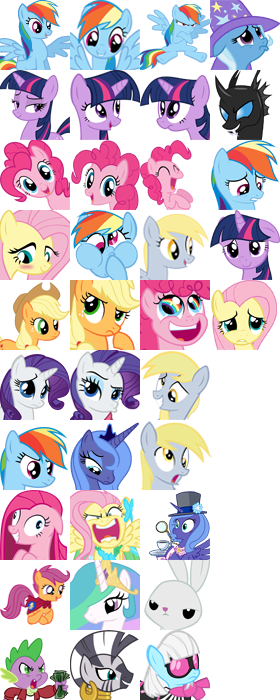
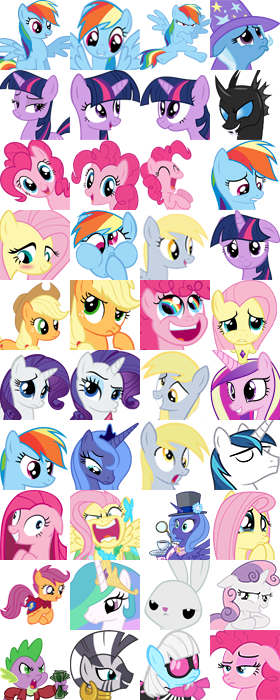
Update ponymoticons
Six new Reddit-style MLP emotes: cadencesmile, shiningpride, fluttercry,
sneakybelle, ppreally, twisad

Changed region(s): [[0.7429, 0.48, 1.0, 1.0]]

diff --git a/JabbR/Chat.emoji.js b/JabbR/Chat.emoji.js
@@ -6,7 +6,7 @@ var EmojiIcons;
     
     var validEmoji = { "+1": true, "-1": true, "0": true, "1": true, "109": true, "2": true, "3": true, "4": true, "5": true, "6": true, "7": true, "8": true, "8ball": true, "9": true, "a": true, "ab": true, "airplane": true, "alien": true, "ambulance": true, "angel": true, "anger": true, "angry": true, "apple": true, "aquarius": true, "aries": true, "arrow_backward": true, "arrow_down": true, "arrow_forward": true, "arrow_left": true, "arrow_lower_left": true, "arrow_lower_right": true, "arrow_right": true, "arrow_up": true, "arrow_upper_left": true, "arrow_upper_right": true, "art": true, "astonished": true, "atm": true, "b": true, "baby": true, "baby_chick": true, "baby_symbol": true, "balloon": true, "bamboo": true, "bank": true, "barber": true, "baseball": true, "basketball": true, "bath": true, "bear": true, "beer": true, "beers": true, "beginner": true, "bell": true, "bento": true, "bike": true, "bikini": true, "bird": true, "birthday": true, "black_square": true, "blue_car": true, "blue_heart": true, "blush": true, "boar": true, "boat": true, "bomb": true, "book": true, "boot": true, "bouquet": true, "bow": true, "bowtie": true, "boy": true, "bread": true, "briefcase": true, "broken_heart": true, "bug": true, "bulb": true, "bullettrain_front": true, "bullettrain_side": true, "bus": true, "busstop": true, "cactus": true, "cake": true, "calling": true, "camel": true, "camera": true, "cancer": true, "capricorn": true, "car": true, "cat": true, "cd": true, "chart": true, "checkered_flag": true, "cherry_blossom": true, "chicken": true, "christmas_tree": true, "church": true, "cinema": true, "city_sunrise": true, "city_sunset": true, "clap": true, "clapper": true, "clock1": true, "clock10": true, "clock11": true, "clock12": true, "clock2": true, "clock3": true, "clock4": true, "clock5": true, "clock6": true, "clock7": true, "clock8": true, "clock9": true, "closed_umbrella": true, "cloud": true, "clubs": true, "cn": true, "cocktail": true, "coffee": true, "cold_sweat": true, "computer": true, "confounded": true, "congratulations": true, "construction": true, "construction_worker": true, "convenience_store": true, "cool": true, "cop": true, "copyright": true, "couple": true, "couple_with_heart": true, "couplekiss": true, "cow": true, "crossed_flags": true, "crown": true, "cry": true, "cupid": true, "currency_exchange": true, "curry": true, "cyclone": true, "dancer": true, "dancers": true, "dango": true, "dart": true, "dash": true, "de": true, "department_store": true, "diamonds": true, "disappointed": true, "dog": true, "dolls": true, "dolphin": true, "dress": true, "dvd": true, "ear": true, "ear_of_rice": true, "egg": true, "eggplant": true, "eight_pointed_black_star": true, "eight_spoked_asterisk": true, "elephant": true, "email": true, "es": true, "european_castle": true, "exclamation": true, "eyes": true, "factory": true, "fallen_leaf": true, "fast_forward": true, "fax": true, "fearful": true, "feelsgood": true, "feet": true, "ferris_wheel": true, "finnadie": true, "fire": true, "fire_engine": true, "fireworks": true, "fish": true, "fist": true, "flags": true, "flushed": true, "football": true, "fork_and_knife": true, "fountain": true, "four_leaf_clover": true, "fr": true, "fries": true, "frog": true, "fuelpump": true, "gb": true, "gem": true, "gemini": true, "ghost": true, "gift": true, "gift_heart": true, "girl": true, "goberserk": true, "godmode": true, "golf": true, "green_heart": true, "grey_exclamation": true, "grey_question": true, "grin": true, "guardsman": true, "guitar": true, "gun": true, "haircut": true, "hamburger": true, "hammer": true, "hamster": true, "hand": true, "handbag": true, "hankey": true, "hash": true, "headphones": true, "heart": true, "heart_decoration": true, "heart_eyes": true, "heartbeat": true, "heartpulse": true, "hearts": true, "hibiscus": true, "high_heel": true, "horse": true, "hospital": true, "hotel": true, "hotsprings": true, "house": true, "hurtrealbad": true, "icecream": true, "id": true, "ideograph_advantage": true, "imp": true, "information_desk_person": true, "iphone": true, "it": true, "jack_o_lantern": true, "japanese_castle": true, "joy": true, "jp": true, "key": true, "kimono": true, "kiss": true, "kissing_face": true, "kissing_heart": true, "koala": true, "koko": true, "kr": true, "leaves": true, "leo": true, "libra": true, "lips": true, "lipstick": true, "lock": true, "loop": true, "loudspeaker": true, "love_hotel": true, "mag": true, "mahjong": true, "mailbox": true, "man": true, "man_with_gua_pi_mao": true, "man_with_turban": true, "maple_leaf": true, "mask": true, "massage": true, "mega": true, "memo": true, "mens": true, "metal": true, "metro": true, "microphone": true, "minidisc": true, "mobile_phone_off": true, "moneybag": true, "monkey": true, "monkey_face": true, "moon": true, "mortar_board": true, "mount_fuji": true, "mouse": true, "movie_camera": true, "muscle": true, "musical_note": true, "nail_care": true, "necktie": true, "new": true, "no_good": true, "no_smoking": true, "nose": true, "notes": true, "o": true, "o2": true, "ocean": true, "octocat": true, "octopus": true, "oden": true, "office": true, "ok": true, "ok_hand": true, "ok_woman": true, "older_man": true, "older_woman": true, "open_hands": true, "ophiuchus": true, "palm_tree": true, "parking": true, "part_alternation_mark": true, "pencil": true, "penguin": true, "pensive": true, "persevere": true, "person_with_blond_hair": true, "phone": true, "pig": true, "pill": true, "pisces": true, "point_down": true, "point_left": true, "point_right": true, "point_up": true, "point_up_2": true, "police_car": true, "poop": true, "post_office": true, "postbox": true, "pray": true, "princess": true, "punch": true, "purple_heart": true, "question": true, "rabbit": true, "racehorse": true, "radio": true, "rage": true, "rage1": true, "rage2": true, "rage3": true, "rage4": true, "rainbow": true, "raised_hands": true, "ramen": true, "red_car": true, "red_circle": true, "registered": true, "relaxed": true, "relieved": true, "restroom": true, "rewind": true, "ribbon": true, "rice": true, "rice_ball": true, "rice_cracker": true, "rice_scene": true, "ring": true, "rocket": true, "roller_coaster": true, "rose": true, "ru": true, "runner": true, "sa": true, "sagittarius": true, "sailboat": true, "sake": true, "sandal": true, "santa": true, "satellite": true, "satisfied": true, "saxophone": true, "school": true, "school_satchel": true, "scissors": true, "scorpius": true, "scream": true, "seat": true, "secret": true, "shaved_ice": true, "sheep": true, "shell": true, "ship": true, "shipit": true, "shirt": true, "shit": true, "shoe": true, "signal_strength": true, "six_pointed_star": true, "ski": true, "skull": true, "sleepy": true, "slot_machine": true, "smile": true, "smiley": true, "smirk": true, "smoking": true, "snake": true, "snowman": true, "sob": true, "soccer": true, "space_invader": true, "spades": true, "spaghetti": true, "sparkler": true, "sparkles": true, "speaker": true, "speedboat": true, "squirrel": true, "star": true, "star2": true, "stars": true, "station": true, "statue_of_liberty": true, "stew": true, "strawberry": true, "sunflower": true, "sunny": true, "sunrise": true, "sunrise_over_mountains": true, "surfer": true, "sushi": true, "suspect": true, "sweat": true, "sweat_drops": true, "swimmer": true, "syringe": true, "tada": true, "tangerine": true, "taurus": true, "taxi": true, "tea": true, "telephone": true, "tennis": true, "tent": true, "thumbsdown": true, "thumbsup": true, "ticket": true, "tiger": true, "tm": true, "toilet": true, "tokyo_tower": true, "tomato": true, "tongue": true, "top": true, "tophat": true, "traffic_light": true, "train": true, "trident": true, "trollface": true, "trophy": true, "tropical_fish": true, "truck": true, "trumpet": true, "tshirt": true, "tulip": true, "tv": true, "u5272": true, "u55b6": true, "u6307": true, "u6708": true, "u6709": true, "u6e80": true, "u7121": true, "u7533": true, "u7a7a": true, "umbrella": true, "unamused": true, "underage": true, "unlock": true, "up": true, "us": true, "v": true, "vhs": true, "vibration_mode": true, "virgo": true, "vs": true, "walking": true, "warning": true, "watermelon": true, "wave": true, "wc": true, "wedding": true, "whale": true, "wheelchair": true, "white_square": true, "wind_chime": true, "wink": true, "wink2": true, "wolf": true, "woman": true, "womans_hat": true, "womens": true, "x": true, "yellow_heart": true, "zap": true, "zzz": true };
     var validv4c = { "ducktart": "dooktart.png", "ready": "ready.gif", "birry": "ztop.gif", "vdog": "cat.gif", "gaben": "zgabe.gif", "3s": "seal.png", "burd": "birdy.gif", "snoop": "snoop.gif", "jimmies": "jimmy.gif", "sanic": "sonicx.png", "burgirl": "ss.gif", "dilbert": "dilbert.gif", "deepdarkfantasy": "fantasy.gif", "bioware": "biogurl.gif", "shazbot": "33.png", "bestkorea": "kim.gif", "hitoame": "shower.gif", "duane": "duane.gif", "keke": "keke6.png", "uncle": "VffoS.jpg", "reshiram": "ee.gif", "push": "push.gif", "autism": "a.gif", "juggalo": "ll.gif", "stanza": "heh.png", "bestgames": "pstriple.png", "gamestop": "spekettle.gif", "teto": "oz.gif", "fothegrove": "grove.gif", "aliens": "aliens.gif", "go": "zgo.gif", "pomf": "pomf.png", "kreayshawn": "kray.png", "bodywash": "bodywash.png", "goblinu": "zgobz.jpg", "feel": "1ducktart.jpg", "valien": "ssd.gif", "2spooky4me": "spooky.gif", "2spooky": "spooky.gif", "gooby": "o2XNE.jpg", "dosh": "dsdasd.png", "8bitdose": "wee2.gif", "costanza": "heh.png" };
-    var validPony = { "ajlie": "a", "priceless": "a", "flutterjerk": "a", "flutterroll": "a", "twipride": "a", "celestiamad": "a", "twicrazy": "a", "spikemeh": "a", "lunateehee": "a", "lunawait": "a", "derpwizard": "a", "abmeh": "a", "ajhappy": "a", "pinkiefear": "a", "twibeam": "a", "scootaderp": "a", "raritydaww": "a", "scootacheer": "a", "swagintosh": "a", "pinkieawe": "a", "ajsup": "a", "flutterwhoa": "a", "rdcry": "a", "silverspoon": "a", "ohcomeon": "a", "ppcute": "a", "abbored": "a", "rarityreally": "a", "raritynews": "a", "sbbook": "a", "scootaplease": "a", "applegasp": "a", "twiright": "a", "celestiawut": "a", "grannysmith": "a", "rarishock": "a", "shiningarmor": "a", "chrysalis": "a", "cadence": "a", "applederp": "a", "flutterfear": "b", "ppboring": "b", "rarityyell": "b", "fluttershy": "b", "ajcower": "b", "ajsly": "b", "eeyup": "b", "rdsmile": "b", "fluttersrs": "b", "raritydress": "b", "takealetter": "b", "rdwut": "b", "ppshrug": "b", "spikenervous": "b", "noooo": "b", "dj": "b", "fluttershh": "b", "flutteryay": "b", "squintyjack": "b", "spikepushy": "b", "ajugh": "b", "raritywut": "b", "dumbfabric": "b", "raritywhy": "b", "trixiesmug": "b", "flutterwink": "b", "rarityannoyed": "b", "soawesome": "b", "ajwut": "b", "twisquint": "b", "raritywhine": "b", "rdcool": "b", "abwut": "b", "manspike": "b", "cockatrice": "b", "facehoof": "b", "rarityjudge": "b", "rarityprimp": "b", "twirage": "b", "ppseesyou": "b", "rdsitting": "c", "rdhappy": "c", "rdannoyed": "c", "trixiesad": "c", "twismug": "c", "twismile": "c", "twistare": "c", "changeling": "c", "ohhi": "c", "party": "c", "hahaha": "c", "rdscared": "c", "flutterblush": "c", "gross": "c", "derpyhappy": "c", "twidaww": "c", "ajfrown": "c", "hmmm": "c", "pinkiejoy": "c", "whattheflut": "c", "raritysad": "c", "fabulous": "c", "derp": "c", "louder": "c", "lunasad": "c", "derpyshock": "c", "pinkamina": "c", "loveme": "c", "lunagasp": "c", "scootaloo": "c", "celestia": "c", "angelglare": "c", "allmybits": "c", "zecora": "c", "photofinish": "c", "stonie": "d", "pinkiehigh": "d", "rbtrippin": "d", "spikehigh": "d", "pervertedaj": "d", "twihigh": "d", "fluttersqueak": "d", "happyrarity": "d", "bakedrarity": "d", "rbhigh": "d", "ajhuh": "d", "flutterfree": "d", "celestreeia": "d", "awwshit": "d", "treepony": "d", "rbomg": "d", "mobboss": "d", "opalescence": "d", "sneakiepinkie": "d", "dirigible": "d", "trixiehigh": "d", "twiderp": "d", "whoovesing": "d", "twiheh": "d", "flutterhigh": "d", "derpyhigh": "d", "flutteryeah": "d", "spikegimmie": "d", "sirderp": "d", "twiblah": "d", "fluttersmoke": "d", "braeburnhuh": "d", "bakedspike": "d", "lunasly": "d", "derpinkie": "d", "lunasilly": "d", "rbreally": "d", "rarityhuh": "d", "bluebowl": "d", "fillytgap": "e", "rdhuh": "e", "snails": "e", "lyra": "e", "bonbon": "e", "spitfire": "e", "cutealoo": "e", "happyluna": "e", "sotrue": "e", "wahaha": "e", "sbstare": "e", "punchdrunk": "e", "huhhuh": "e", "absmile": "e", "dealwithit": "e", "nmm": "e", "whooves": "e", "rdsalute": "e", "octavia": "e", "colgate": "e", "cheerilee": "e", "ajbaffle": "e", "abhuh": "e", "thehorror": "e", "twiponder": "e", "spikewtf": "e", "awwyeah": "e", "gilda": "e", "discentia": "e", "manlytears": "e" };
+    var validPony = { "ajlie": "a", "priceless": "a", "flutterjerk": "a", "flutterroll": "a", "twipride": "a", "celestiamad": "a", "twicrazy": "a", "spikemeh": "a", "lunateehee": "a", "lunawait": "a", "derpwizard": "a", "abmeh": "a", "ajhappy": "a", "pinkiefear": "a", "twibeam": "a", "scootaderp": "a", "raritydaww": "a", "scootacheer": "a", "swagintosh": "a", "pinkieawe": "a", "ajsup": "a", "flutterwhoa": "a", "rdcry": "a", "silverspoon": "a", "ohcomeon": "a", "ppcute": "a", "abbored": "a", "rarityreally": "a", "raritynews": "a", "sbbook": "a", "scootaplease": "a", "applegasp": "a", "twiright": "a", "celestiawut": "a", "grannysmith": "a", "rarishock": "a", "shiningarmor": "a", "chrysalis": "a", "cadence": "a", "applederp": "a", "flutterfear": "b", "ppboring": "b", "rarityyell": "b", "fluttershy": "b", "ajcower": "b", "ajsly": "b", "eeyup": "b", "rdsmile": "b", "fluttersrs": "b", "raritydress": "b", "takealetter": "b", "rdwut": "b", "ppshrug": "b", "spikenervous": "b", "noooo": "b", "dj": "b", "fluttershh": "b", "flutteryay": "b", "squintyjack": "b", "spikepushy": "b", "ajugh": "b", "raritywut": "b", "dumbfabric": "b", "raritywhy": "b", "trixiesmug": "b", "flutterwink": "b", "rarityannoyed": "b", "soawesome": "b", "ajwut": "b", "twisquint": "b", "raritywhine": "b", "rdcool": "b", "abwut": "b", "manspike": "b", "cockatrice": "b", "facehoof": "b", "rarityjudge": "b", "rarityprimp": "b", "twirage": "b", "ppseesyou": "b", "rdsitting": "c", "rdhappy": "c", "rdannoyed": "c", "trixiesad": "c", "twismug": "c", "twismile": "c", "twistare": "c", "changeling": "c", "ohhi": "c", "party": "c", "hahaha": "c", "rdscared": "c", "flutterblush": "c", "gross": "c", "derpyhappy": "c", "twidaww": "c", "ajfrown": "c", "hmmm": "c", "pinkiejoy": "c", "whattheflut": "c", "raritysad": "c", "fabulous": "c", "derp": "c", "cadencesmile": "c", "louder": "c", "lunasad": "c", "derpyshock": "c", "shiningpride": "c", "pinkamina": "c", "loveme": "c", "lunagasp": "c", "fluttercry": "c", "scootaloo": "c", "celestia": "c", "angelglare": "c", "sneakybelle": "c", "allmybits": "c", "zecora": "c", "photofinish": "c", "ppreally": "c", "stonie": "d", "pinkiehigh": "d", "rbtrippin": "d", "spikehigh": "d", "pervertedaj": "d", "twihigh": "d", "fluttersqueak": "d", "happyrarity": "d", "bakedrarity": "d", "rbhigh": "d", "ajhuh": "d", "flutterfree": "d", "celestreeia": "d", "awwshit": "d", "treepony": "d", "rbomg": "d", "mobboss": "d", "opalescence": "d", "sneakiepinkie": "d", "dirigible": "d", "trixiehigh": "d", "twiderp": "d", "whoovesing": "d", "twiheh": "d", "flutterhigh": "d", "derpyhigh": "d", "flutteryeah": "d", "spikegimmie": "d", "sirderp": "d", "twiblah": "d", "fluttersmoke": "d", "braeburnhuh": "d", "bakedspike": "d", "lunasly": "d", "derpinkie": "d", "lunasilly": "d", "rbreally": "d", "rarityhuh": "d", "bluebowl": "d", "fillytgap": "e", "rdhuh": "e", "snails": "e", "twisad": "e", "lyra": "e", "bonbon": "e", "spitfire": "e", "cutealoo": "e", "happyluna": "e", "sotrue": "e", "wahaha": "e", "sbstare": "e", "punchdrunk": "e", "huhhuh": "e", "absmile": "e", "dealwithit": "e", "nmm": "e", "whooves": "e", "rdsalute": "e", "octavia": "e", "colgate": "e", "cheerilee": "e", "ajbaffle": "e", "abhuh": "e", "thehorror": "e", "twiponder": "e", "spikewtf": "e", "awwyeah": "e", "gilda": "e", "discentia": "e", "manlytears": "e" };
     var validAlias = { "\\:-?\\)" : ":smile:", ":-?D\\b": ":grin:", ";-?\\)" : ":wink:", "\\:-?\\(": ":disappointed:", "\\:'-?\\(" : ":cry:", ":-?P\\b" : ":tongue:", ":-?p\\b" : ":tongue:", ":-?O\\b" : ":astonished:", ":-?o\\b" : ":astonished:" };
 
     // initialize emote list dialog

diff --git a/JabbR/Content/ponymoticon.css b/JabbR/Content/ponymoticon.css
@@ -110,18 +110,23 @@
 .ponymoticon-raritysad { background-position: -0px -350px; }
 .ponymoticon-fabulous { background-position: -70px -350px; }
 .ponymoticon-derp { background-position: -140px -350px; }
+.ponymoticon-cadencesmile { background-position: -210px -350px; }
 .ponymoticon-louder { background-position: -0px -420px; }
 .ponymoticon-lunasad { background-position: -70px -420px; }
 .ponymoticon-derpyshock { background-position: -140px -420px; }
+.ponymoticon-shiningpride { background-position: -210px -420px; }
 .ponymoticon-pinkamina { background-position: -0px -490px; }
 .ponymoticon-loveme { background-position: -70px -490px; }
 .ponymoticon-lunagasp { background-position: -140px -490px; }
+.ponymoticon-fluttercry { background-position: -210px -490px; }
 .ponymoticon-scootaloo { background-position: -0px -560px; }
 .ponymoticon-celestia { background-position: -70px -560px; }
 .ponymoticon-angelglare { background-position: -140px -560px; }
+.ponymoticon-sneakybelle { background-position: -210px -560px; }
 .ponymoticon-allmybits { background-position: -0px -630px; }
 .ponymoticon-zecora { background-position: -70px -630px; }
 .ponymoticon-photofinish { background-position: -140px -630px; }
+.ponymoticon-ppreally { background-position: -210px -630px; }
 
 .ponymoticon-stonie { background-position: -0px -0px; }
 .ponymoticon-pinkiehigh { background-position: -70px -0px; }
@@ -167,6 +172,7 @@
 .ponymoticon-fillytgap { background-position: -0px -0px; }
 .ponymoticon-rdhuh { background-position: -70px -0px; }
 .ponymoticon-snails { background-position: -140px -0px; }
+.ponymoticon-twisad { background-position: -210px -0px; }
 .ponymoticon-lyra { background-position: -0px -70px; }
 .ponymoticon-bonbon { background-position: -70px -70px; }
 .ponymoticon-spitfire { background-position: -140px -70px; }
